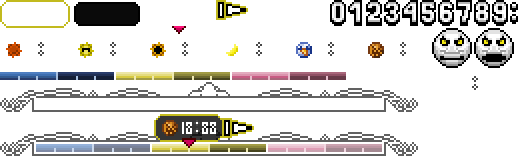
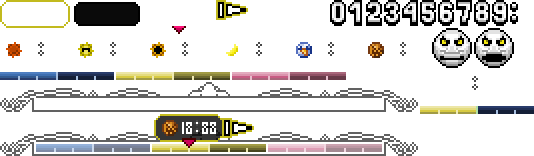
Finished the 3D clock
One more thing before the update can be released: the happiness
indicator

diff --git a/Common/MMClockUI3D.cs b/Common/MMClockUI3D.cs
@@ -57,6 +57,10 @@ public class MMClockUIThreeD : UIElement
         time += (Main.dayLength * ApocalypseSystem.apocalypseDay * 2);
         var pos = new Vector2();
         pos.X = position.X + Utils.Remap((float)time, 0, (float)Main.dayLength * 6, 36, frameRect.Width - 36) * scale - (frameRect.Width / 2) * scale;
+        if (!ApocalypseSystem.cycleActive)
+        {
+            pos.X = position.X;
+        }
         pos.Y = position.Y - 8 * scale;
         return pos;
     }
@@ -127,6 +131,10 @@ public class MMClockUIThreeD : UIElement
     {
         get
         {
+            if (!ApocalypseSystem.cycleActive)
+            {
+                return new Rectangle(150, 96, 118, 16);
+            }
             return new Rectangle(0, 82, 418, 30);
         }
     }
@@ -172,6 +180,10 @@ public class MMClockUIThreeD : UIElement
     {
         int day = Int32.Clamp(tDay, 0, 2);
         int width = 114;
+        if (tDay < 0)
+        {
+            return new Rectangle(420, 106, width, 8);
+        }
         return new Rectangle((width + 2) * day, 72, width, 8);
     }
 
@@ -181,6 +193,18 @@ public class MMClockUIThreeD : UIElement
         {
             return;
         }
+        if (ApocalypseSystem.cycleActive)
+        {
+            DrawWhenCycleActive(spriteBatch);
+        }
+        else
+        {
+            DrawWhenCycleInactive(spriteBatch);
+        }
+    }
+
+    private void DrawWhenCycleActive(SpriteBatch spriteBatch)
+    {
         DrawFrame(spriteBatch, scale);
         if (!ApocalypseSystem.FinalHours)
         {
@@ -201,6 +225,13 @@ public class MMClockUIThreeD : UIElement
         {
             apocalypseAnimProgress = Single.Clamp(apocalypseAnimProgress - Single.Clamp(0.1f * apocalypseAnimProgress, 0, 0.015f), 0, apocalypseAnimProgress);
         }
+    }
+
+    private void DrawWhenCycleInactive(SpriteBatch spriteBatch)
+    {
+        DrawPeacefulFrame(spriteBatch, scale);
+        DrawClock(spriteBatch, scale);
+        DrawMarker(spriteBatch, scale);
     }
 
     private void DrawApocalypseUI(SpriteBatch spriteBatch, float scale)
@@ -365,6 +396,31 @@ public class MMClockUIThreeD : UIElement
             arrowOrigin.Y -= 4;
             spriteBatch.Draw(texture.Value, MarkerPosition(scale), arrow, Color.White * alpha, 0f, arrowOrigin, scale, SpriteEffects.None, 0f);
         }
+    }
+
+    private void DrawPeacefulFrame(SpriteBatch spriteBatch, float scale)
+    {
+        var time = Main.time;
+        if (!Main.dayTime)
+        {
+            time = DoubleLerp(0, Main.dayLength, Utils.GetLerpValue(0, Main.nightLength, time)) + Main.dayLength;
+        }
+        Vector2 origin = new(0, frameRect.Height);
+        origin.X += Utils.Remap((float)time, 0, (float)Main.dayLength * 2, 0, frameRect.Width - 2);
+        Vector2 prevOrigin = origin;
+        prevOrigin.X -= frameRect.Width - 2;
+        Vector2 forwardOrigin = origin;
+        forwardOrigin.X += frameRect.Width - 2;
+
+        Vector2 fillOffset = new(-2, -4);
+        spriteBatch.Draw(texture.Value, position, GetDayFrame(-1), Color.White, 0, origin + fillOffset, scale, SpriteEffects.None, 0f);
+        spriteBatch.Draw(texture.Value, position, frameRect, Color.White, 0, origin, scale, SpriteEffects.None, 0f);
+
+        spriteBatch.Draw(texture.Value, position, GetDayFrame(-1), Color.White * Utils.Remap((float)time, 0, (float)Main.dayLength * 2, 0, 1) * 0.4f, 0, prevOrigin + fillOffset, scale, SpriteEffects.None, 0f);
+        spriteBatch.Draw(texture.Value, position, frameRect, Color.White * Utils.Remap((float)time, 0, (float)Main.dayLength * 2, 0, 1), 0, prevOrigin, scale, SpriteEffects.None, 0f);
+
+        spriteBatch.Draw(texture.Value, position, GetDayFrame(-1), Color.White * Utils.Remap((float)time, 0, (float)Main.dayLength * 2, 1, 0) * 0.4f, 0, forwardOrigin + fillOffset, scale, SpriteEffects.None, 0f);
+        spriteBatch.Draw(texture.Value, position, frameRect, Color.White * Utils.Remap((float)time, 0, (float)Main.dayLength * 2, 1, 0), 0, forwardOrigin, scale, SpriteEffects.None, 0f);
     }
 
     private void DrawFrame(SpriteBatch spriteBatch, float scale)

diff --git a/obj/Debug/net8.0/MajorasMaskTribute.AssemblyInfo.cs b/obj/Debug/net8.0/MajorasMaskTribute.AssemblyInfo.cs
@@ -13,7 +13,7 @@ using System.Reflection;
 [assembly: System.Reflection.AssemblyCompanyAttribute("MajorasMaskTribute")]
 [assembly: System.Reflection.AssemblyConfigurationAttribute("Debug")]
 [assembly: System.Reflection.AssemblyFileVersionAttribute("1.0.0.0")]
-[assembly: System.Reflection.AssemblyInformationalVersionAttribute("1.0.0+50d683c205ac621b2f5f0867916a4b0a0e052822")]
+[assembly: System.Reflection.AssemblyInformationalVersionAttribute("1.0.0+9f264396430558aece3ef893762543bb71a95b17")]
 [assembly: System.Reflection.AssemblyProductAttribute("MajorasMaskTribute")]
 [assembly: System.Reflection.AssemblyTitleAttribute("MajorasMaskTribute")]
 [assembly: System.Reflection.AssemblyVersionAttribute("1.0.0.0")]
